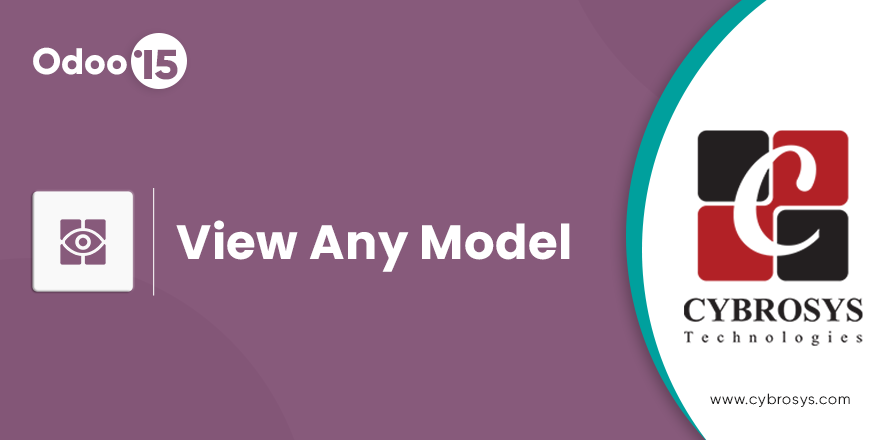
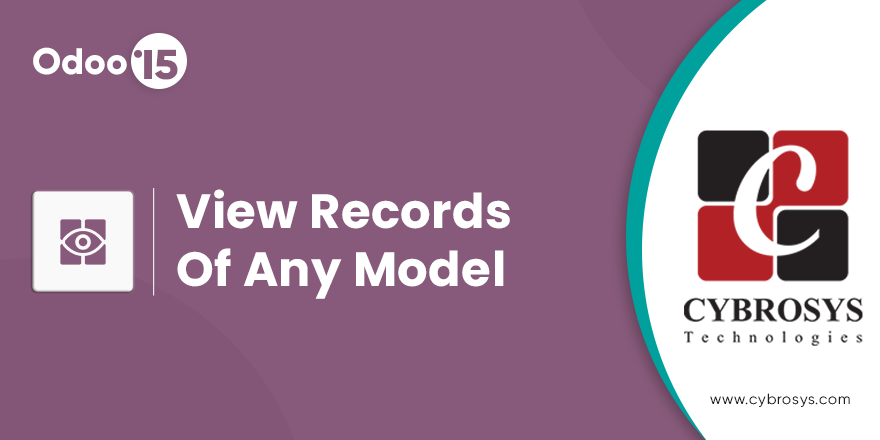
[UPDT] Index Updated

Changed region(s): [[0.1841, 0.4136, 0.675, 0.6795]]

diff --git a/view_any_model/static/description/index.html b/view_any_model/static/description/index.html
@@ -20,7 +20,7 @@
     <div class="row" style="height: 900px !important;">
         <div class="col-sm-12 col-md-12 col-lg-12" style="padding: 4rem 1rem !important; background-color: #714B67 !important; height: 600px !important; border-radius: 20px !important;">
             <h1 style="font-family: 'Montserrat', sans-serif !important; font-weight: 600 !important; color: #FFFFFF !important;  font-size: 3.5rem !important; text-align: center !important;">
-                View Any Model
+                View Records Of Any Model
             </h1>
             <p style="font-family: 'Montserrat', sans-serif !important; font-weight: 300 !important; color: #FFFFFF !important;  font-size: 1.4rem !important; text-align: center !important;">
                 This module allows to view the records of any model in tree or form view
@@ -213,7 +213,7 @@
             <img src="assets/screenshots/view_any_model_8.png" class="img-responsive img-thumbnail border" width="100%" height="auto" />
         </div>
         <div class="col-lg-12 my-2">
-            <h4 class="mt-2" style="font-family: 'Roboto', sans-serif !important; font-weight: 600 !important; color: #282F33 !important; font-size: 1.3rem !important;">Fill fields for tree view</h4>
+            <h4 class="mt-2" style="font-family: 'Roboto', sans-serif !important; font-weight: 600 !important; color: #282F33 !important; font-size: 1.3rem !important;">Fill fields for form view</h4>
             <p style="font-family: 'Roboto', sans-serif !important; font-weight: 400 !important; color: #282F33 !important; font-size: 1rem !important;">
                 Select the View Type as Form and enter the ID of the record and the model name. Then click the View button to view the record in form view.
             </p>

diff --git a/view_any_model/__manifest__.py b/view_any_model/__manifest__.py
@@ -24,8 +24,8 @@
     'name': 'View Records Of Any Model',
     'version': '15.0.1.0.0',
     'category': 'Technical',
-    'summary': 'View Records Of Any Model in Tree and Form View',
-    'description': 'View Records Of Any Model in Tree and Form View',
+    'summary': 'View records of selected model',
+    'description': 'View records of selected model in tree/ form view',
     'author': 'Cybrosys Techno Solutions',
     'company': 'Cybrosys Techno Solutions',
     'maintainer': 'Cybrosys Techno Solutions',

diff --git a/view_any_model/wizard/view_any_model.py b/view_any_model/wizard/view_any_model.py
@@ -39,7 +39,7 @@ class ViewAnyModel(models.TransientModel):
 
     def action_view_model(self):
         """
-
+        View the records of selected model in tree or form view
         :return: tree/ form view of selected model
         """
         if self.view_type == 'form':

diff --git a/view_any_model/README.rst b/view_any_model/README.rst
@@ -2,8 +2,8 @@
     :target: http://www.gnu.org/licenses/agpl-3.0-standalone.html
     :alt: License: AGPL-3
 
-View Any Model
-==============
+View Records Of Any Model
+=========================
 This module allow to view records of all modules.
 
 Configuration

diff --git a/view_any_model/doc/RELEASE_NOTES.md b/view_any_model/doc/RELEASE_NOTES.md
@@ -1,7 +1,7 @@
 ## Module <view_any_model>
 
-#### 31.05.2022
+#### __.05.2022
 #### Version 15.0.1.0.0
 #### ADD
 
-- Initial commit for View Any Model
+- Initial commit for View Records Of Any Model
